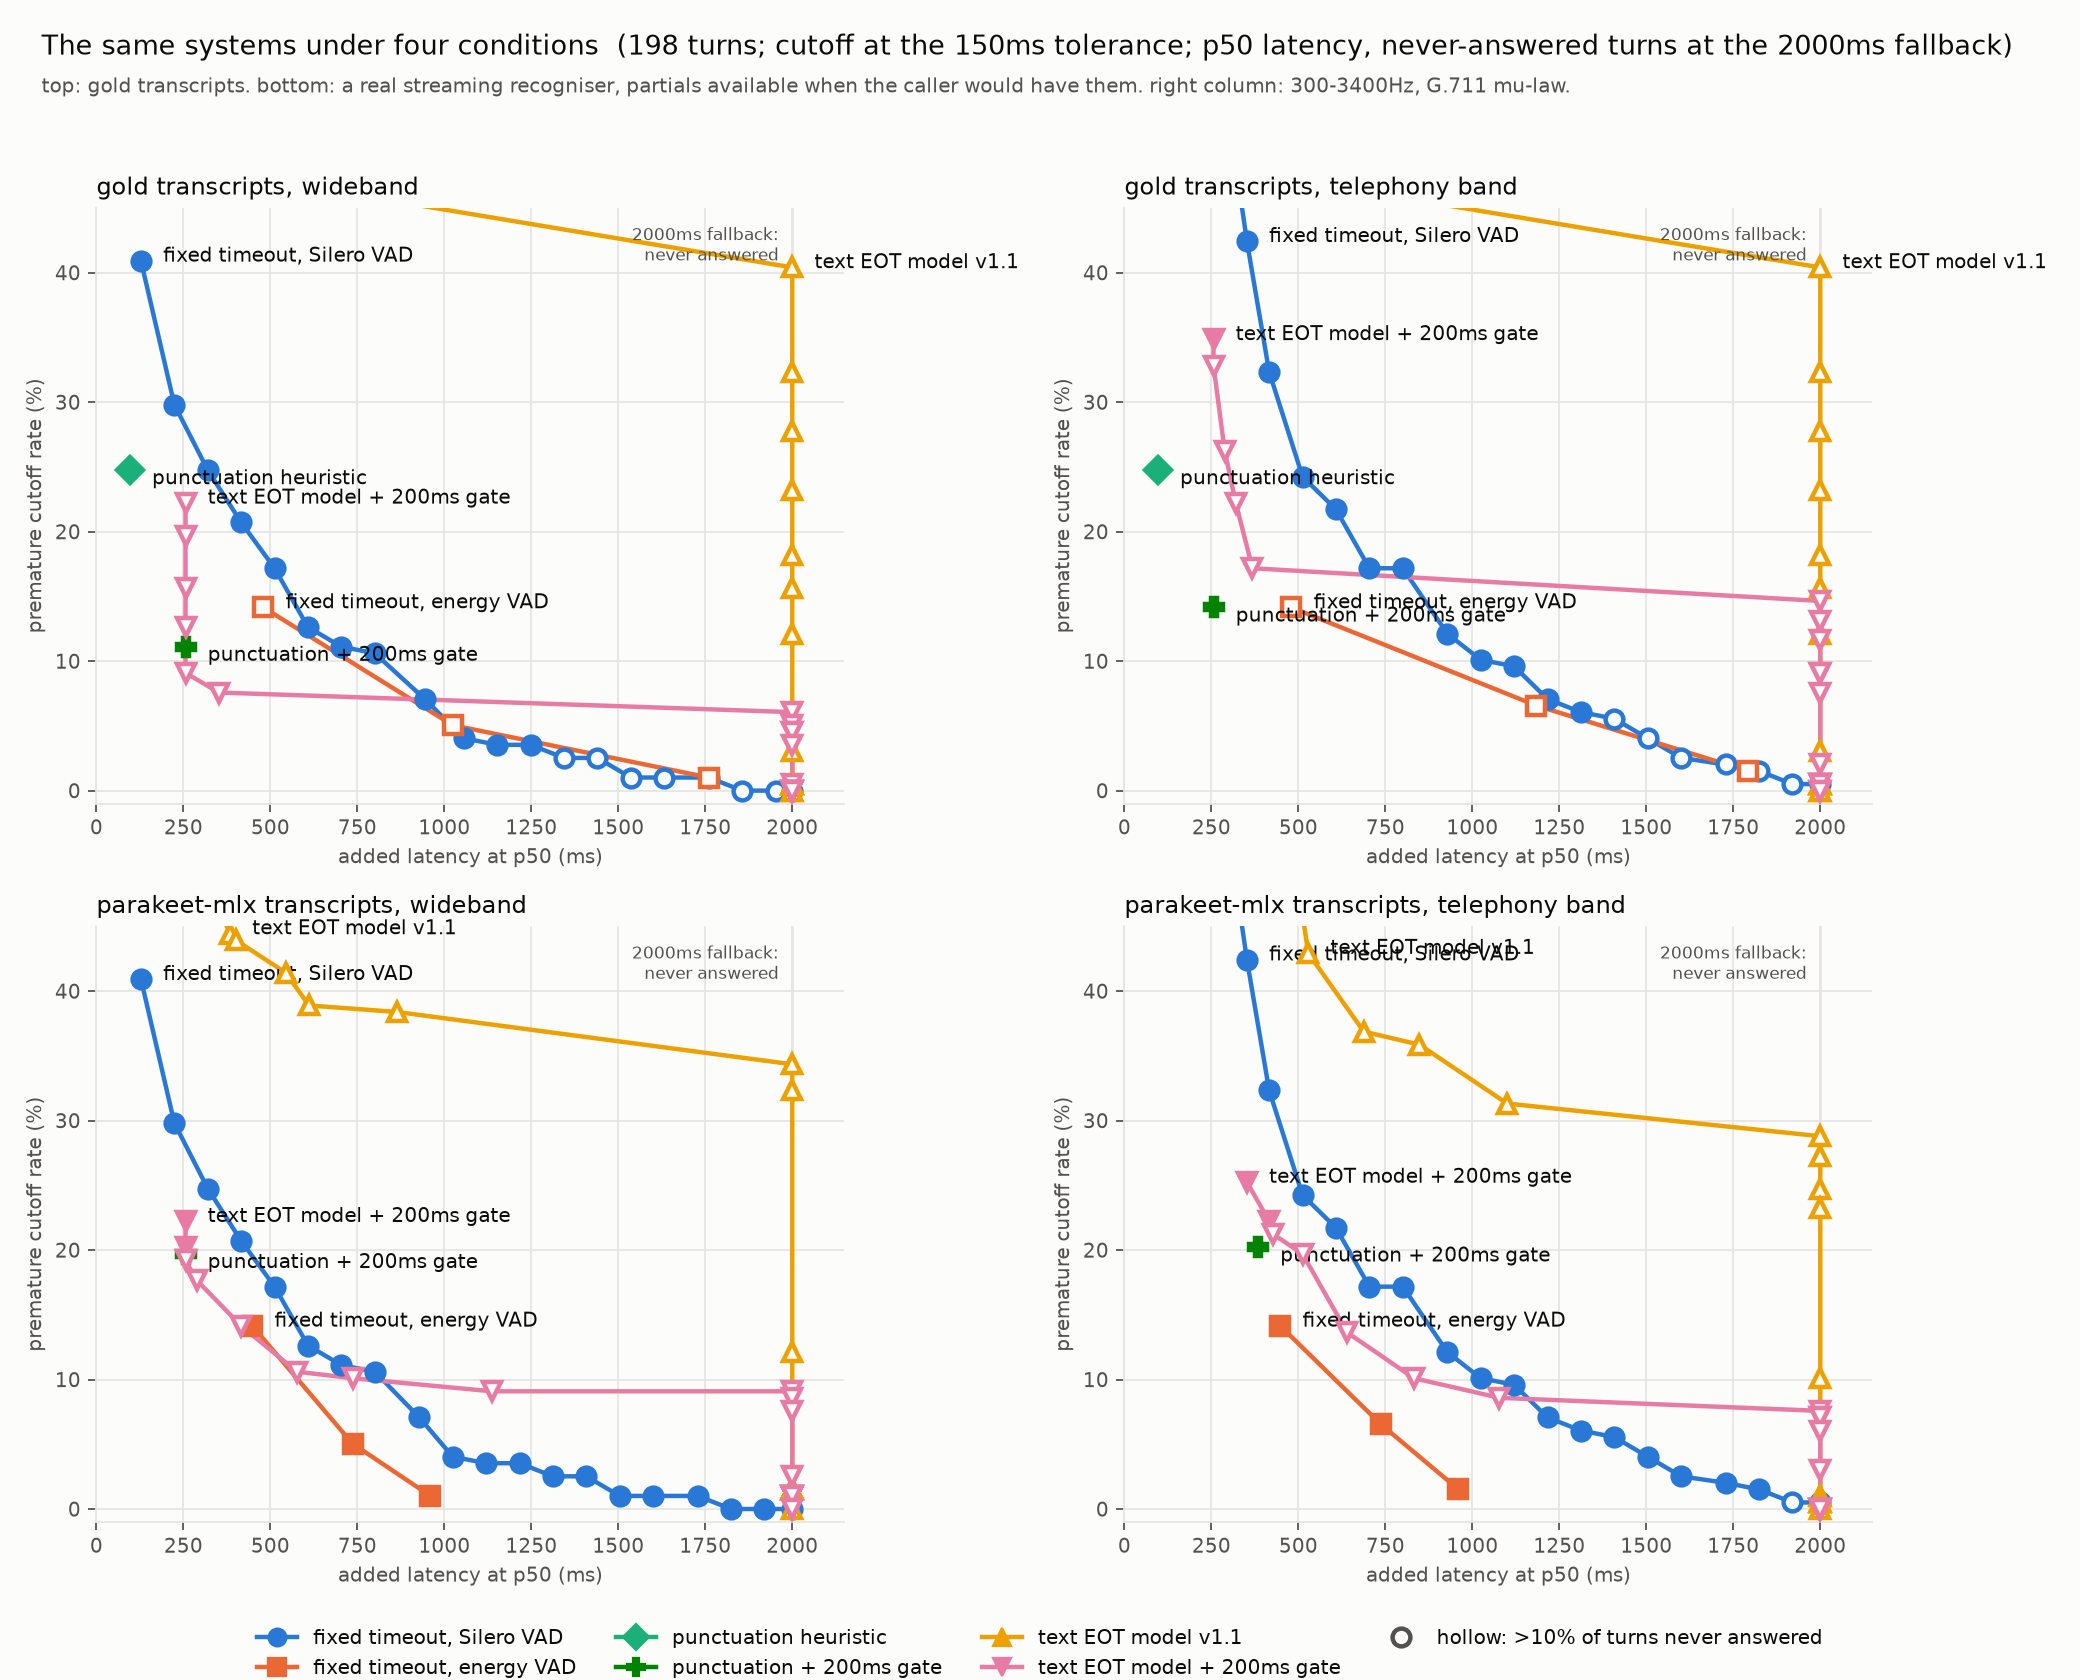
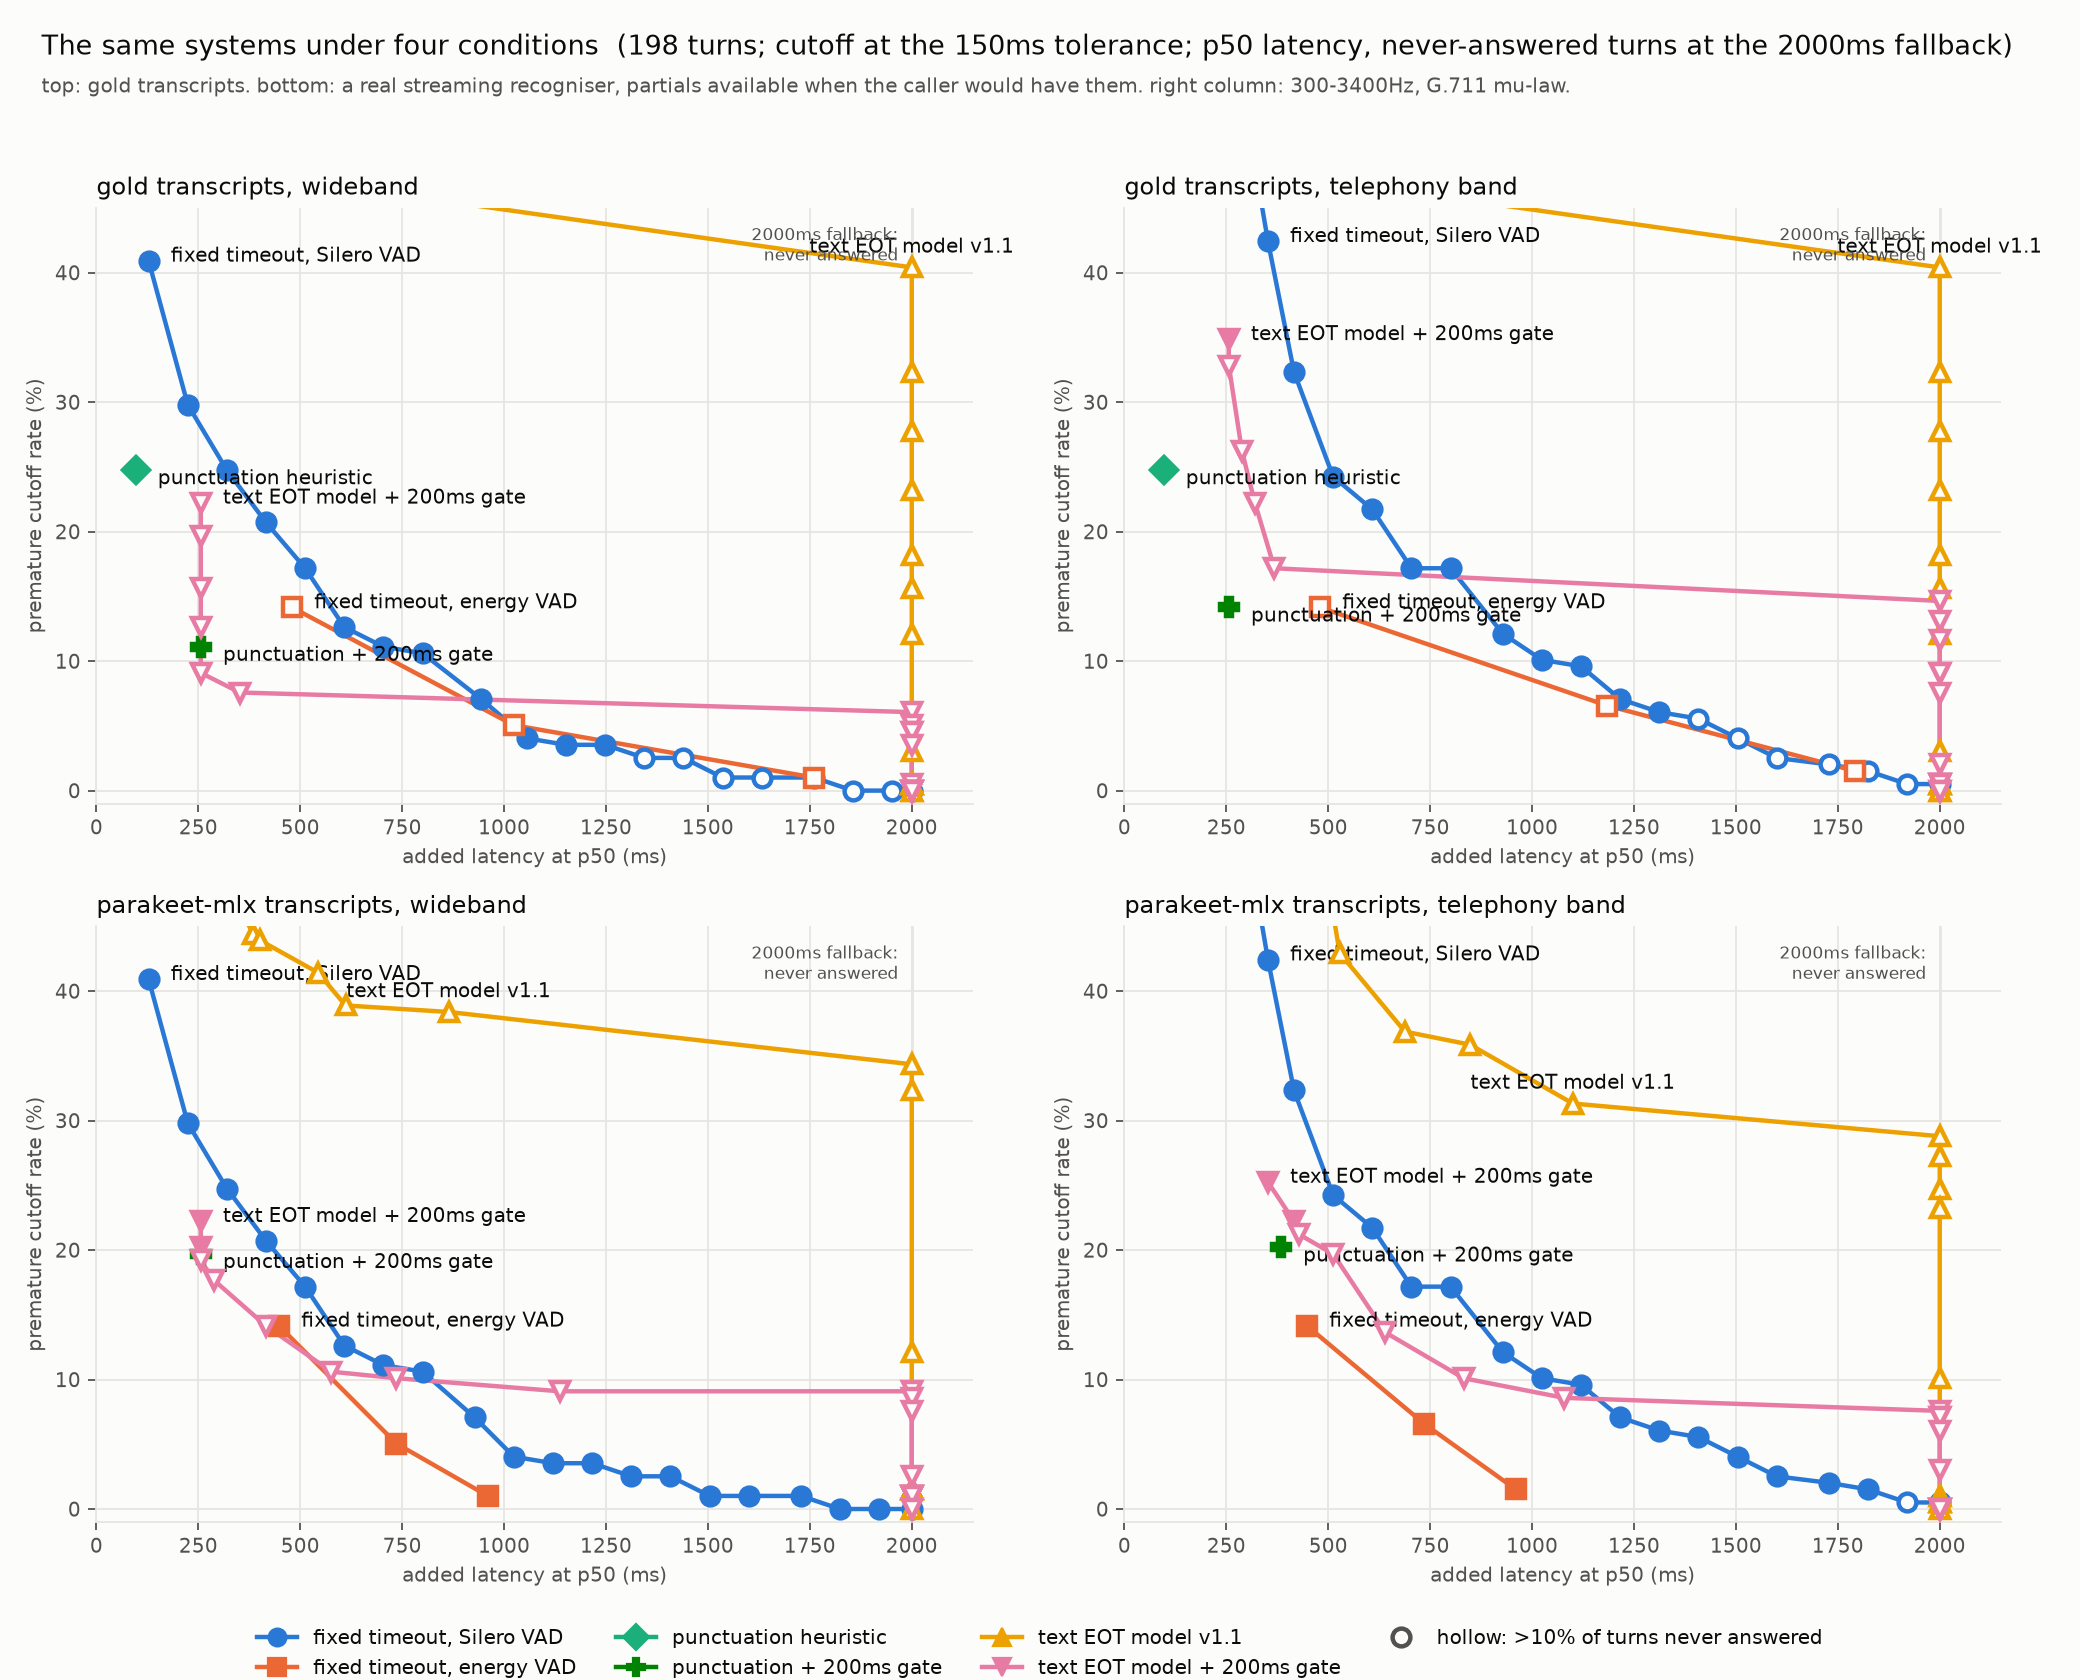
charts: label the bare model mid-curve; caveat on digital silence
The bare model's curve enters the ASR panels at the top-left, where the
timer's label sits, so its label now anchors to the visible point nearest
1400ms. conditions.md gains a caveat: the caller channel is digital silence
after the turn, which flatters energy thresholding in particular (nothing to
re-trigger on); no claim rests on those rows. Charts regenerated; numbers
unchanged.

diff --git a/eval/sweep.py b/eval/sweep.py
@@ -215,8 +215,15 @@ def draw_panel(ax, rows: list[dict], xkey: str, title: str, tags_on: bool = True
             )
         visible = [r for r in pts if r["cutoff_rate_at_tolerance"] * 100 <= Y_MAX]
         if visible:
-            first = visible[0]
-            off = (10, 2) if len(pts) > 1 else (10, -4)
+            # The bare model enters from the top-left, where the timer's label
+            # lives, so it is labelled mid-curve instead of at its first point.
+            bare_model = system.startswith("text_eot") and "+gate" not in system
+            first = (
+                min(visible, key=lambda r: abs(r[xkey] - 1400.0))
+                if bare_model
+                else visible[0]
+            )
+            off = (0, 9) if bare_model else (10, 2) if len(pts) > 1 else (10, -4)
             ax.annotate(
                 label,
                 (first[xkey], first["cutoff_rate_at_tolerance"] * 100),
@@ -224,7 +231,7 @@ def draw_panel(ax, rows: list[dict], xkey: str, title: str, tags_on: bool = True
                 textcoords="offset points",
                 fontsize=9,
                 color=INK,
-                ha="left",
+                ha="center" if bare_model else "left",
                 va="center",
             )
         if not tags_on:

diff --git a/results/conditions.md b/results/conditions.md
@@ -170,6 +170,12 @@ timer loses to narrowband audio are the VAD's, not the timer's. Untried.
   party; it is stated, not hidden.
 - Clean-line telephony: band-limit and codec, no injected noise, so runs
   reproduce byte for byte. Real lines are worse.
+- The caller channel is *digital* silence after the turn. That flatters
+  energy thresholding specifically — the energy-VAD timer's false holds were
+  room tone and bleed re-triggering it, and a zeroed tail has neither, so in
+  the `asr_*` panels it plots as well as Silero. A real line carries noise.
+  No claim in this file rests on the energy-VAD rows; they are in the CSV
+  and on the chart for completeness.
 - One recogniser, one machine, two passes contending for one GPU (1.06×
   realtime; 0.6× solo). `compute_ms` is inflated by the contention;
   `asr_16k_content` isolates what the recogniser's *errors* cost from what its
